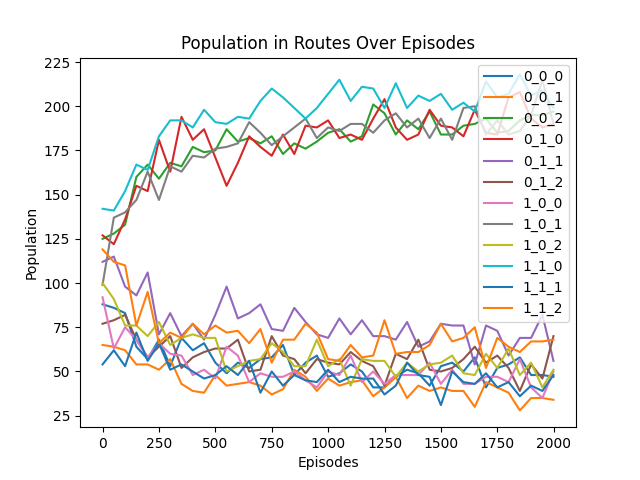
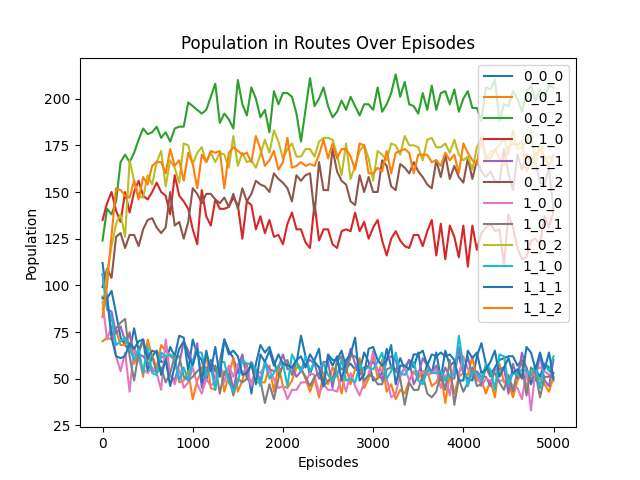
5000 ep training, I guess ready to merge

diff --git a/README.md b/README.md
@@ -16,10 +16,6 @@ The implementation includes several components, as depicted in the UML Class and
 ![](readme_plots/simulation_length.png)
 
 
-## Route Populations:
-![](readme_plots/flows.png)
-
-
 ## One Random Human's Experience
 ![](readme_plots/one_human.png)
 
@@ -27,3 +23,28 @@ The implementation includes several components, as depicted in the UML Class and
 ## One Random Machine's Experience
 ![](readme_plots/one_machine.png)
 
+
+## Route Populations:
+![](readme_plots/flows.png)
+
+
+## Freeflow Times
+
+| Origin | Destination | Index | FF Time |
+|--------|-------------|-------|---------|
+|   0    |      0      |   0   |  4.993  |
+|   0    |      0      |   1   |  7.449  |
+|   0    |      0      |   2   |  3.814  |
+|  ----  |     ----    |  ---- |   ----  |
+|   0    |      1      |   0   |  2.804  |
+|   0    |      1      |   1   |  6.980  |
+|   0    |      1      |   2   |  4.026  |
+|  ----  |     ----    |  ---- |   ----  |
+|   1    |      0      |   0   |  3.310  |
+|   1    |      0      |   1   |  2.663  |
+|   1    |      0      |   2   |  2.475  |
+|  ----  |     ----    |  ---- |   ----  |
+|   1    |      1      |   0   |  7.279  |
+|   1    |      1      |   1   |  8.035  |
+|   1    |      1      |   2   |  6.925  |
+|  ----  |     ----    |  ---- |   ----  |
